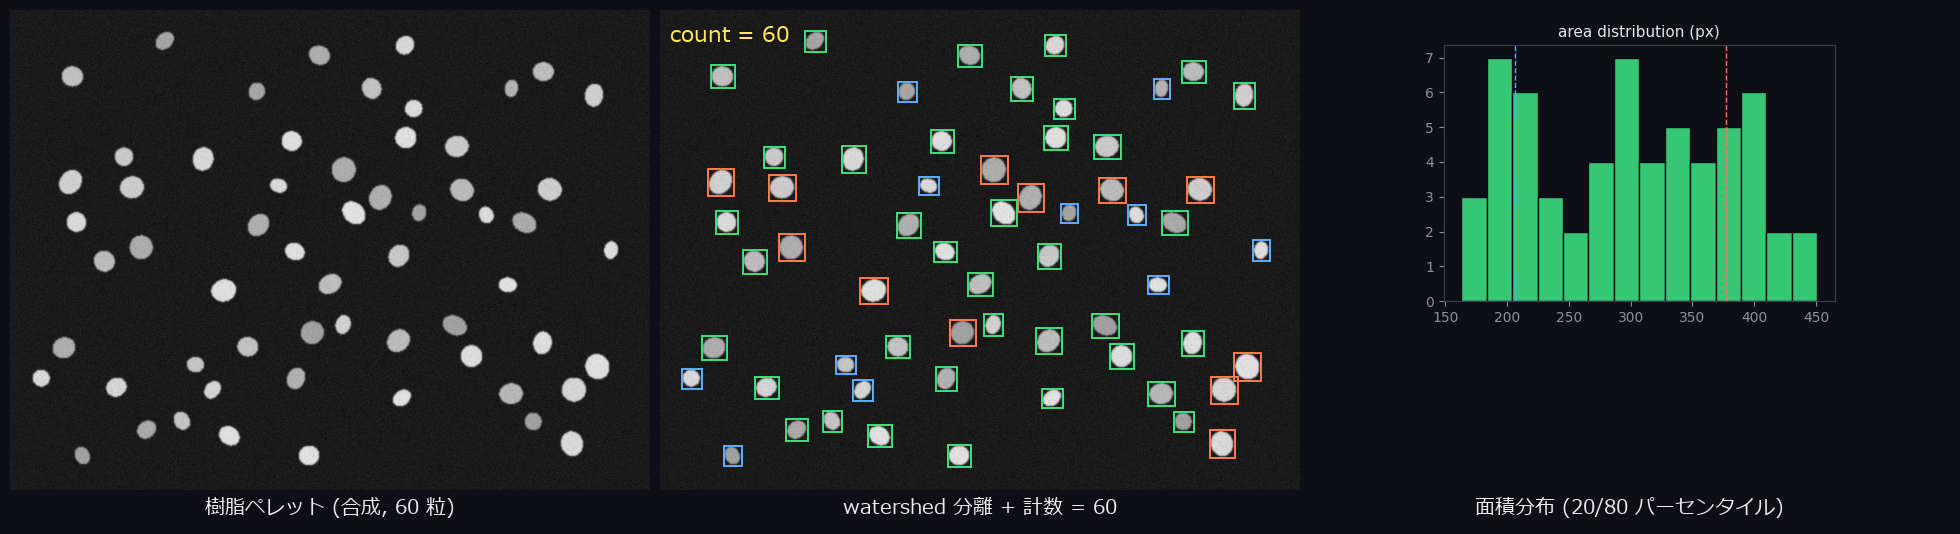
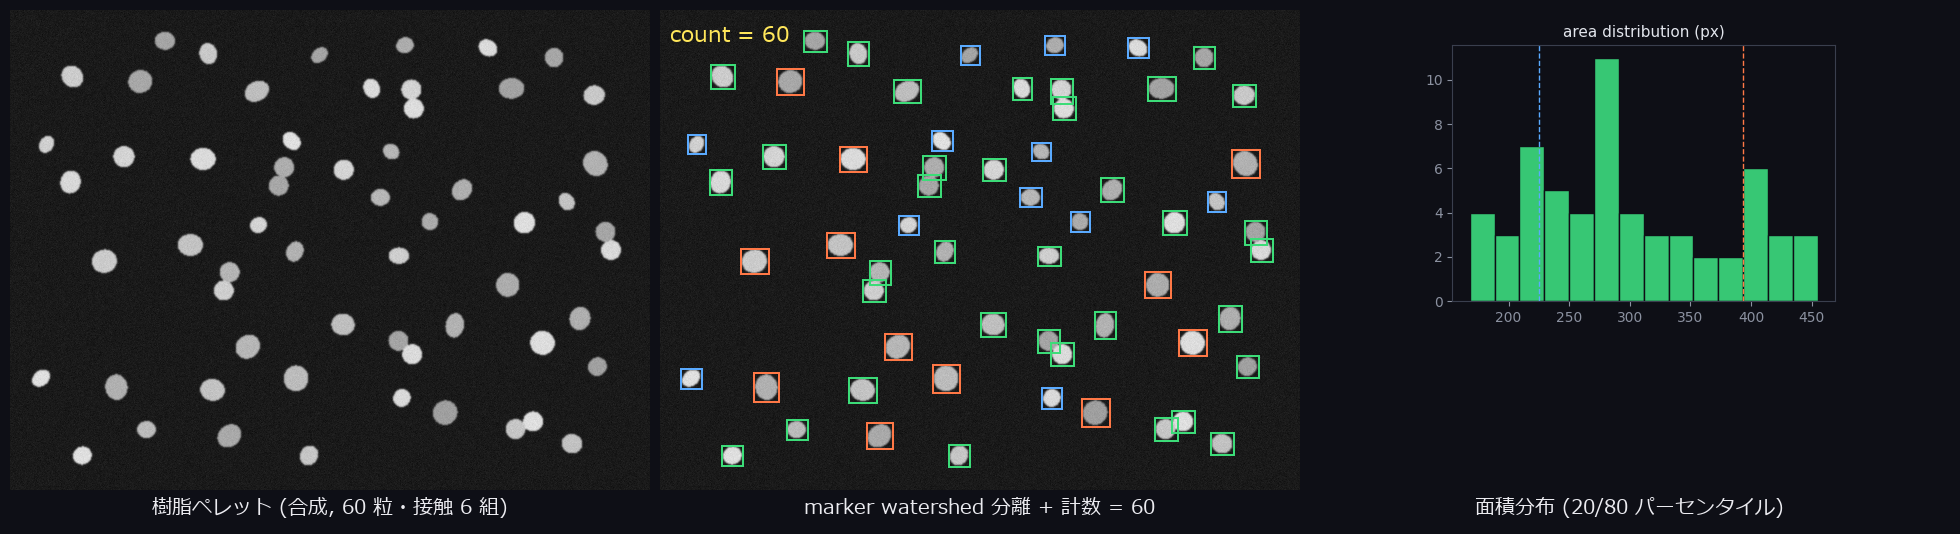
auto: gen_industrial_gallery.py 編集前 (2026-08-30 16:36)

diff --git a/tools/gen_industrial_gallery.py b/tools/gen_industrial_gallery.py
@@ -495,22 +495,22 @@ def subject_blob_pellets(log=print) -> dict:
     plt.close(fig)
 
     panels = [np.stack([img] * 3, -1), _np_of(vis), hist]
-    out = _montage(panels, ["樹脂ペレット (合成, 60 粒)",
-                            f"watershed 分離 + 計数 = {len(objs)}",
+    out = _montage(panels, ["樹脂ペレット (合成, 60 粒・接触 6 組)",
+                            f"marker watershed 分離 + 計数 = {len(objs)}",
                             "面積分布 (20/80 パーセンタイル)"], ncols=3)
     _save_png(out, "industrial_blobs.png")
     _save_thumb("industrial_blobs.png")
     return {
         "file": "industrial_blobs.png",
         "title": "ブロブ解析 — 粒子計数とサイズ分布",
-        "ops": ["otsu", "fill_up", "distance_transform", "watersheds",
-                "segment_objects"],
-        "data": "合成樹脂ペレット 60 粒 (配置数 = 真値)",
+        "ops": ["otsu", "fill_up", "xcv_watershed_markers", "segment_objects"],
+        "data": "合成樹脂ペレット 60 粒・うち 6 組は接触 (配置数 = 真値)",
         "synthetic": True,
-        "caption": ("60 粒を配置した合成画像を otsu 二値化し、距離変換 + watershed で"
-                    "接触粒を切り分けて計数 60/60。面積の 20/80 パーセンタイルで"
-                    "小粒(青)・標準(緑)・大粒(橙)に色分け。粉粒体の品質検査の型。"),
-        "verify": f"配置 60 粒に対し計数 {len(objs)} (一致を assert 済)",
+        "caption": ("60 粒(うち 6 組は実際に接触)を配置した合成画像を otsu 二値化し、"
+                    "距離変換ピークを種にしたマーカー式 watershed で接触粒を切り分けて"
+                    "計数 60/60。面積の 20/80 パーセンタイルで小粒(青)・標準(緑)・"
+                    "大粒(橙)に色分け。粉粒体の品質検査の型。"),
+        "verify": f"配置 60 粒 (接触 6 組込み) に対し計数 {len(objs)} (一致を assert 済)",
     }
 
 

diff --git a/docs/articles/assets/_industrial_snippet.md b/docs/articles/assets/_industrial_snippet.md
@@ -20,7 +20,7 @@
 
 (フル解像度: https://raw.githubusercontent.com/furuse-kazufumi/fullseye/master/docs/articles/assets/industrial_blobs.png )
 
-60 粒を配置した合成画像を otsu 二値化し、距離変換 + watershed で接触粒を切り分けて計数 60/60。面積の 20/80 パーセンタイルで小粒(青)・標準(緑)・大粒(橙)に色分け。粉粒体の品質検査の型。 使用 op: otsu, fill_up, distance_transform, watersheds, segment_objects。データ: 合成樹脂ペレット 60 粒 (配置数 = 真値)。
+60 粒(うち 6 組は実際に接触)を配置した合成画像を otsu 二値化し、距離変換ピークを種にしたマーカー式 watershed で接触粒を切り分けて計数 60/60。面積の 20/80 パーセンタイルで小粒(青)・標準(緑)・大粒(橙)に色分け。粉粒体の品質検査の型。 使用 op: otsu, fill_up, xcv_watershed_markers, segment_objects。データ: 合成樹脂ペレット 60 粒・うち 6 組は接触 (配置数 = 真値)。
 
 ## コード読取りの土台 — 走査線エッジ対によるバー検出
 
